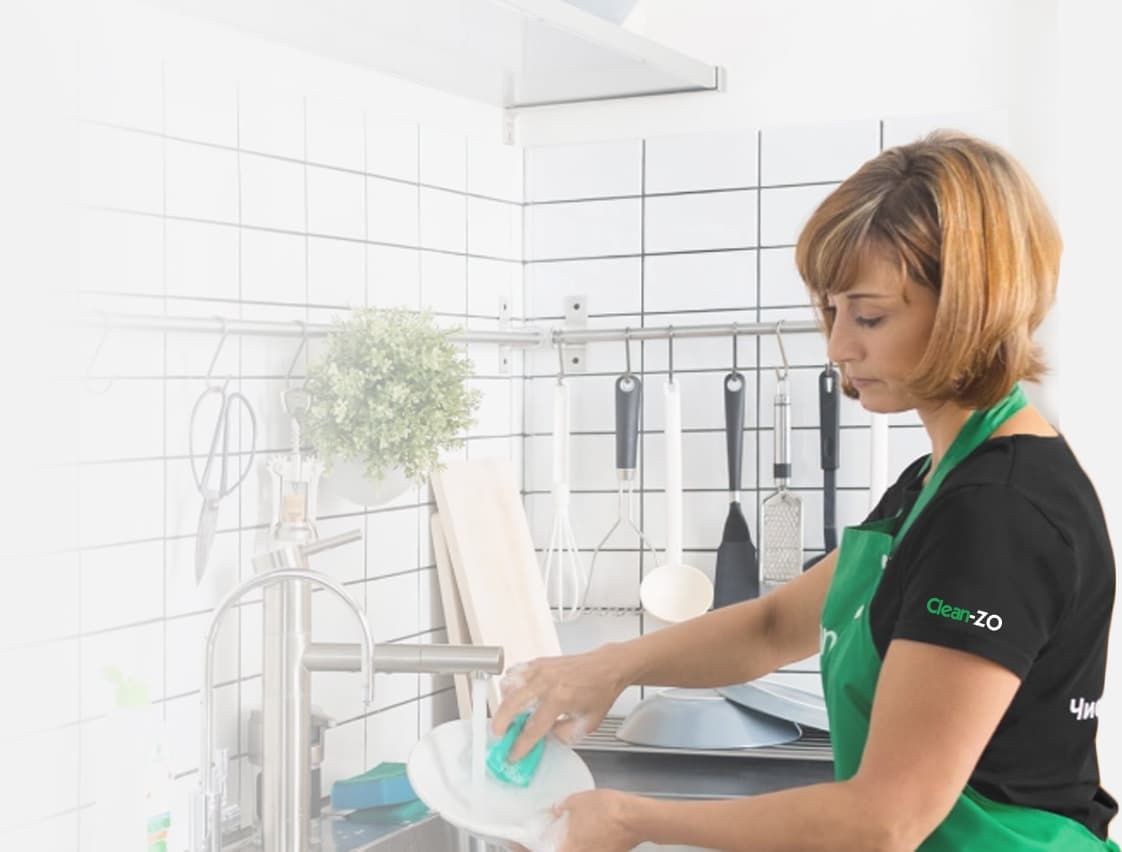
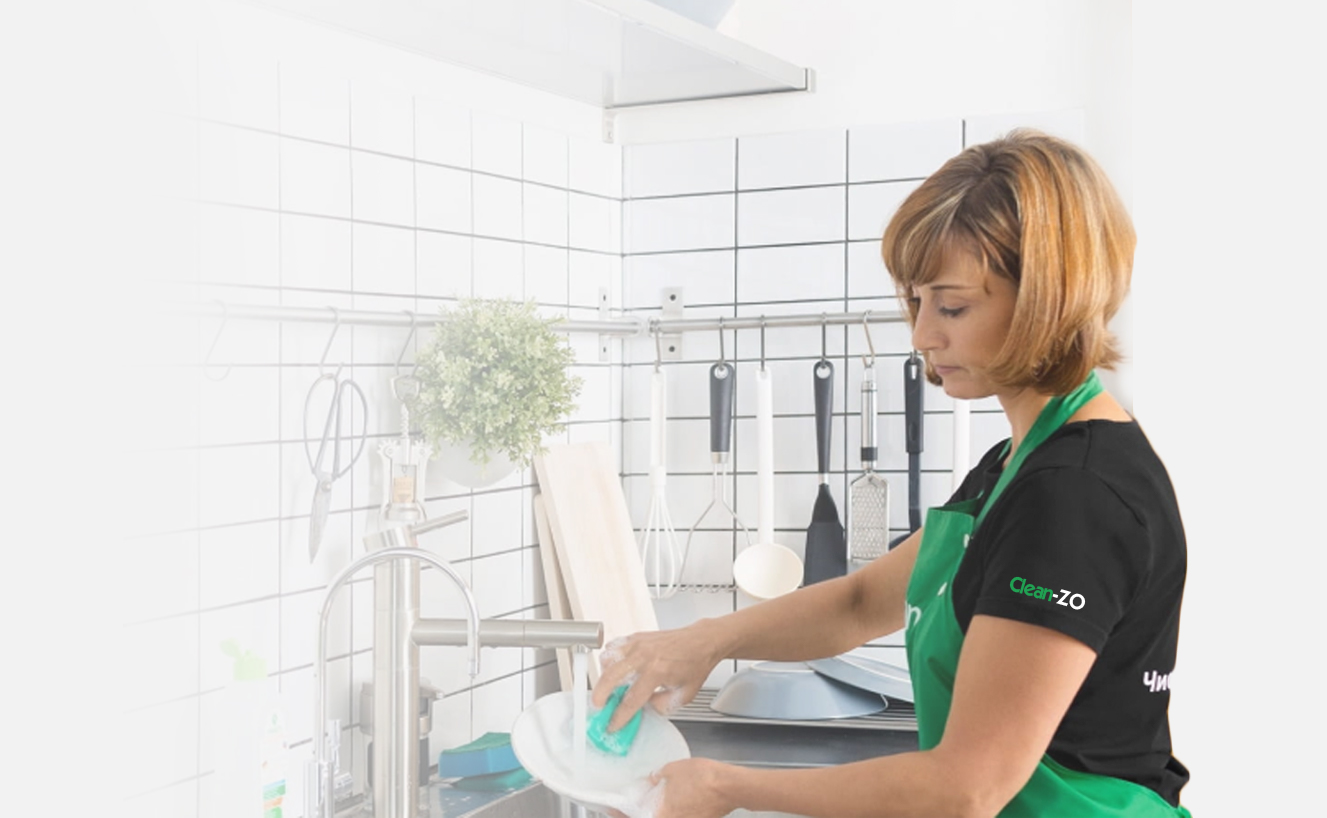
Добавлена иконка перед закажи уборку, исправлен фон, уменьшены отступы в шапке

diff --git a/src/styles/blocks/_main-content.scss b/src/styles/blocks/_main-content.scss
@@ -6,15 +6,12 @@
 .main-content {
   flex-grow: 1;
   display: flex;
-  padding: 30px 0;
-  background: #f2f2f2 url("../images/all/background.jpg") center no-repeat;
-  background-size: contain;
-  @media (max-width: 1440px) {
-    background-image: url("../images/all/background--1440.jpg");
-    background-size: cover;
-  }
+  padding: 23px 0 37px;
+  background: #f2f2f2 url("../images/all/background.jpg") center right -200px no-repeat;
+  background-size: cover;
   @include breakpoint (md) {
     padding: 35px 0;
+    background-position: 0 0;
   }
   @media (max-width: 400px) {
     background-image: url("../images/all/background--400.jpg");
@@ -57,7 +54,7 @@
 }
 
 .main-content__item:not(:first-of-type) {
-  margin-top: 30px;
+  margin-top: 35px;
 }
 
 .main-content__item {
@@ -72,6 +69,10 @@
     height: 45px;
     background: url("../images/all/css_sprites.png") no-repeat; 
   }
+}
+
+.main-content__strong {
+  font-weight: 800;
 }
 
 .main-content__item--cleaning::before {
@@ -90,21 +91,11 @@
   background-position: -75px -75px;
 }
 
-.main-content__paragraph {
-  margin-top: 30px;
-  font-weight: 500;
-  font-size: 18px;
-  @include breakpoint (md) {
-    margin-top: 30px;
-  }
-  @include breakpoint (sm) {
-    text-align: center;
-  }
+.main-content__item--promotion::before {
+  background-position: -140px -10px;
 }
 
-.main-content__paragraph-strong {
-  font-weight: 800;
-}
+
 
 .order-form {
   display: flex;
@@ -127,7 +118,7 @@
 
 .order-form__field {
   width: 100%;
-  padding: 19px 10px 19px 29px;
+  padding: 15px 10px 15px 20px;
   font-weight: 400;
   font-size: 18px;
   border: 1px solid transparent;
@@ -142,8 +133,8 @@
 .order-form__button {
   width: 100%;
   min-width: 230px;
-  margin-top: 20px;
-  padding: 19px;
+  margin-top: 10px;
+  padding: 16px 19px;
   font-weight: 500;
   font-size: 18px;
   text-transform: uppercase;

diff --git a/src/index.html b/src/index.html
@@ -55,8 +55,8 @@
           <li class="main-content__item main-content__item--dry-cleaning">Химчистка ковров и мягкой&nbsp;мебели</li>
 					<li class="main-content__item main-content__item--legal-persons">Уборка офисов, складов и&nbsp;т.д. (на&nbsp;постоянной основе)</li>
 					<li class="main-content__item main-content__item--window-cleaning">Мойка окон и&nbsp;фасадов</li>
+          <li class="main-content__item main-content__item--promotion">Закажи уборку, и мойка окон до&nbsp;5&nbsp;шт.&nbsp;<span class="main-content__strong">бесплатно!</span></li>
         </ul>
-        <p class="main-content__paragraph">Закажи уборку, и мойка окон до&nbsp;5&nbsp;шт.&nbsp;<span class="main-content__paragraph-strong">бесплатно!</span></p>
         <form class="main-content__order-form order-form js-form" action="mail.php" method="POST">
           <label class="order-form__title"><span class="visually-hidden">Ваше имя</span><input class="order-form__field" type="text" name="name" placeholder="Ваше имя"></label>
           <label class="order-form__title"><span class="visually-hidden">Ваш телефон</span><input class="order-form__field" type="tel" name="phone" placeholder="Ваш телефон"></label>

diff --git a/src/styles/blocks/_main-header.scss b/src/styles/blocks/_main-header.scss
@@ -5,7 +5,7 @@
 
 .main-header {
   position: relative;
-	padding: 20px 0;
+	padding: 16px 0 13px;
   box-shadow: 0 0 33.82px 4.18px rgba(26, 26, 26, 0.17);
 }
 
@@ -35,11 +35,11 @@
   font-weight: 400;
   font-size: 20px;
   text-align: center;
+  @media (max-width: 993px) {
+    font-size: 18px;
+  }
   @media (max-width: 849px) {
     margin-top: 10px;
-  }
-  @include breakpoint (md) {
-    font-size: 18px;
   }
 }
 
@@ -57,11 +57,11 @@
   font-weight: 500;
   font-size: 18px;
   color: $grey;
+  @media (max-width: 993px) {
+    font-size: 16px;
+  }
   @media (max-width: 849px) {
     text-align: center;
-  }
-  @include breakpoint (md) {
-    font-size: 16px;
   }
 }
 
@@ -75,20 +75,22 @@
 
 .contacts__link {
   display: block;
-  margin-top: 10px;
+  @media (max-width: 849px) {
+    margin-top: 10px;
+  }
 }
 
 .contacts__link--viber {
   width: 44px;
   height: 46px;
-  background: url("../images/all/css_sprites.png") -140px -10px no-repeat;
+  background: url("../images/all/css_sprites.png") -205px -10px no-repeat;
 }
 
 .contacts__link--whatsapp {
   margin-left: 20px;
   width: 40px;
   height: 40px;
-  background: url("../images/all/css_sprites.png") -140px -76px no-repeat;
+  background: url("../images/all/css_sprites.png") -205px -76px no-repeat;
 }
 
 

diff --git a/src/styles/helpers/_mixs.scss b/src/styles/helpers/_mixs.scss
@@ -8,7 +8,7 @@
     margin: 0 auto;
     padding: 0 $gutter;
     width: 100%;
-  /*  @include breakpoint(el) {
+    @include breakpoint(el) {
         max-width: 992px;
     }
     @include breakpoint(lg) {
@@ -19,7 +19,7 @@
     }
     @include breakpoint(sm) {
         max-width: 480px;
-    } */
+    }
 }
 
 .visually-hidden {
